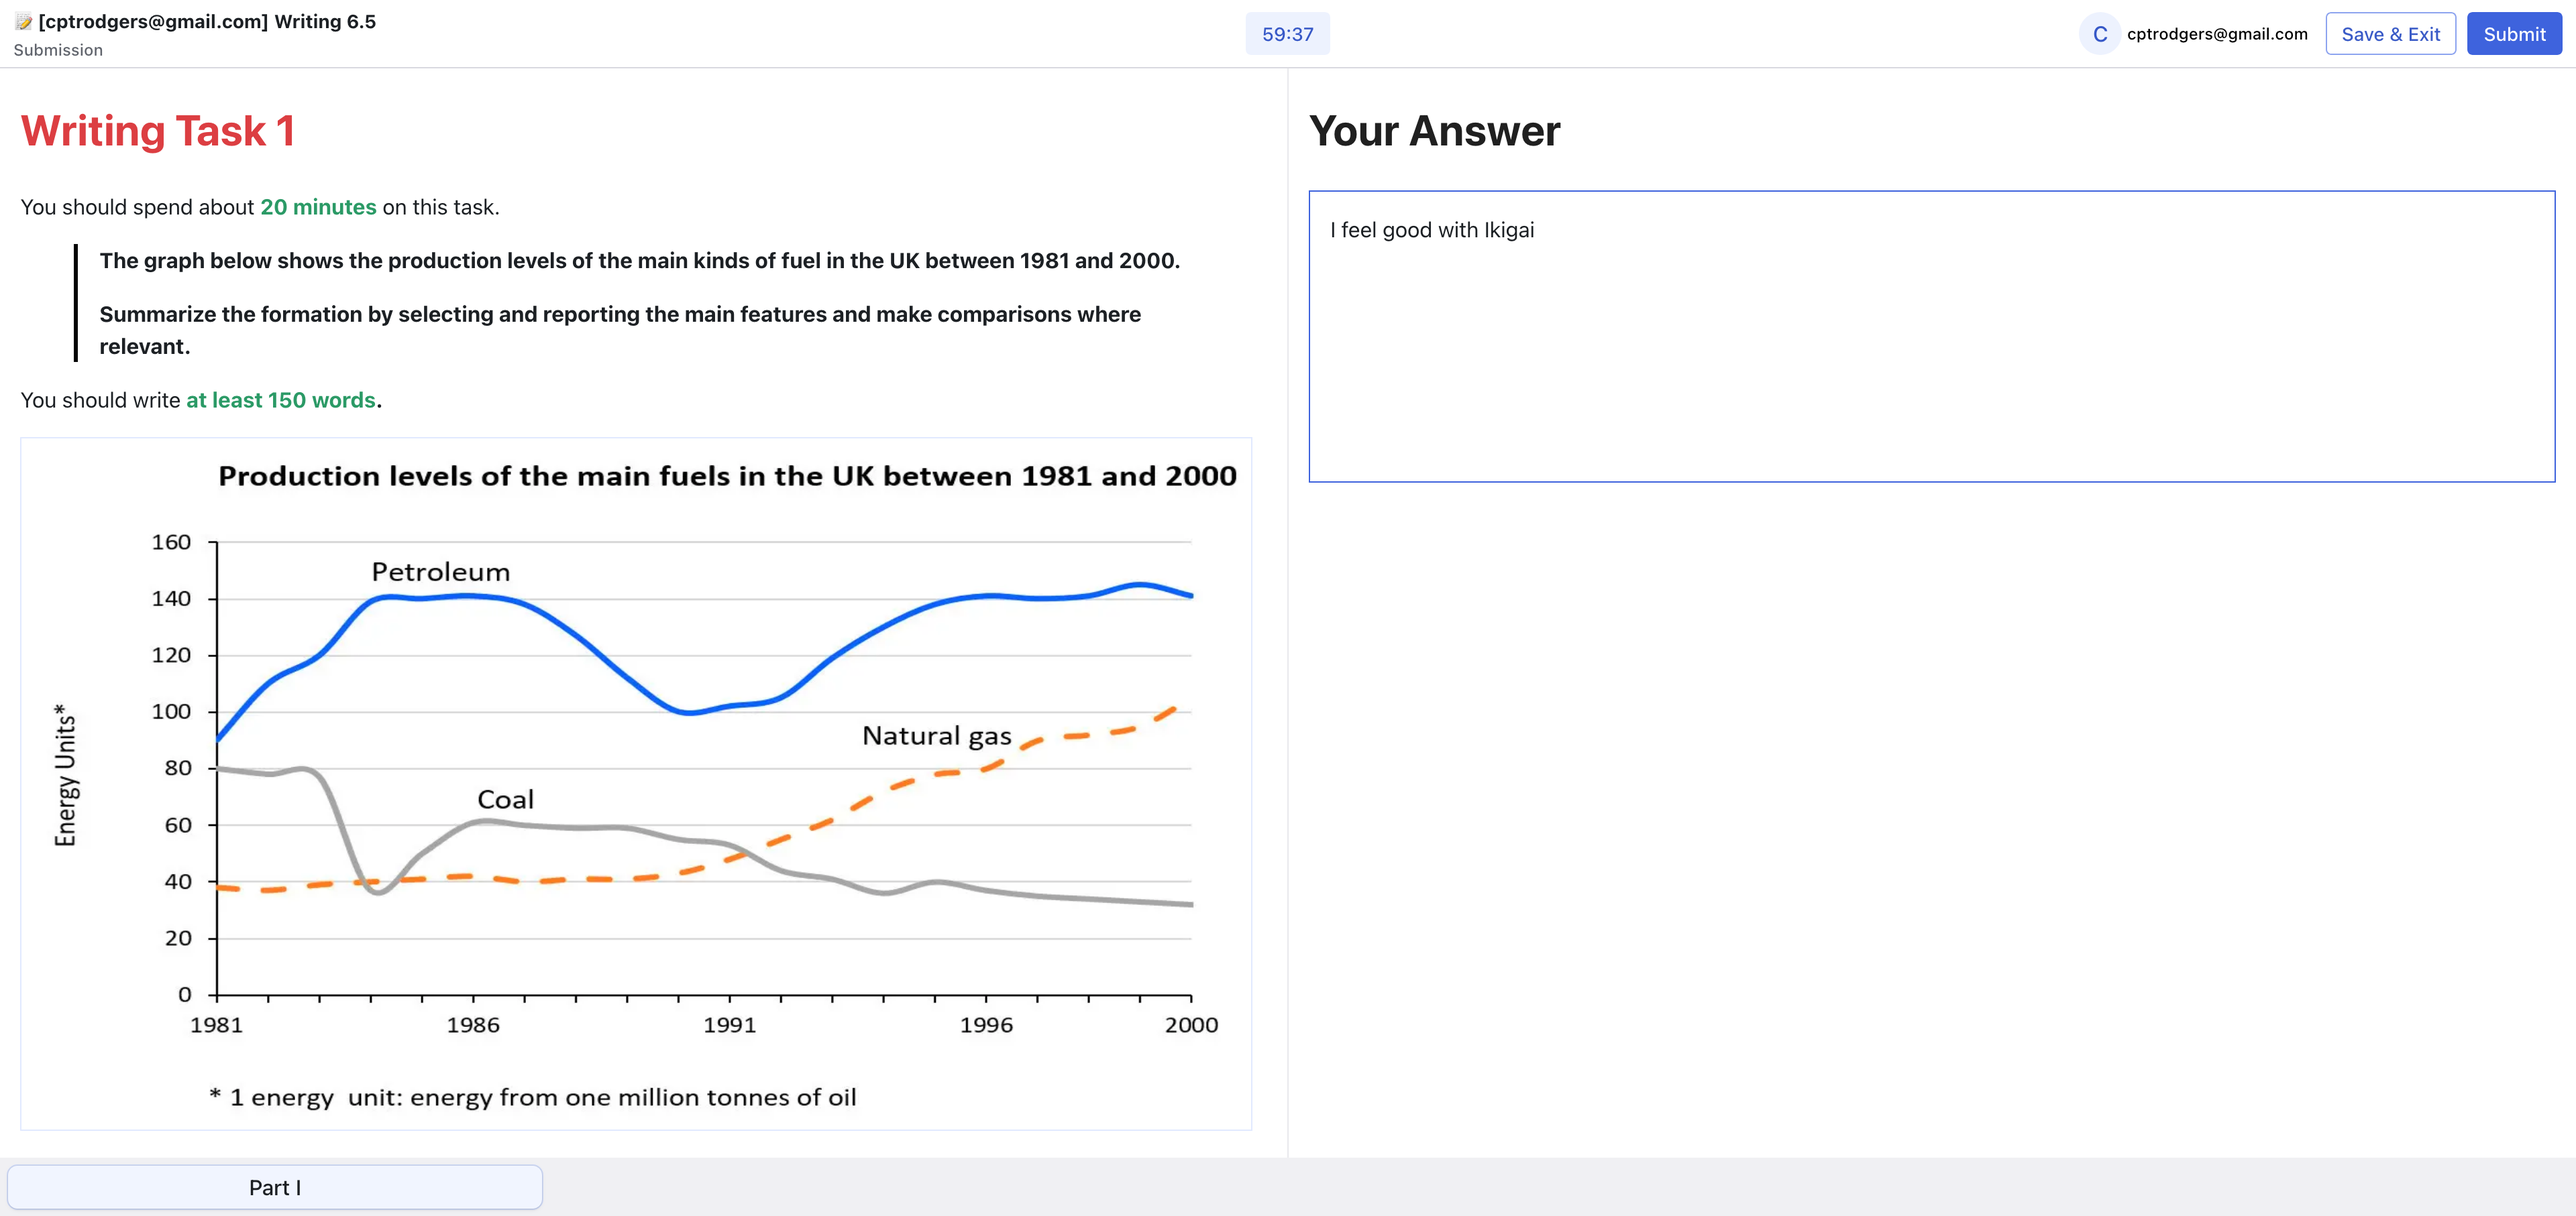
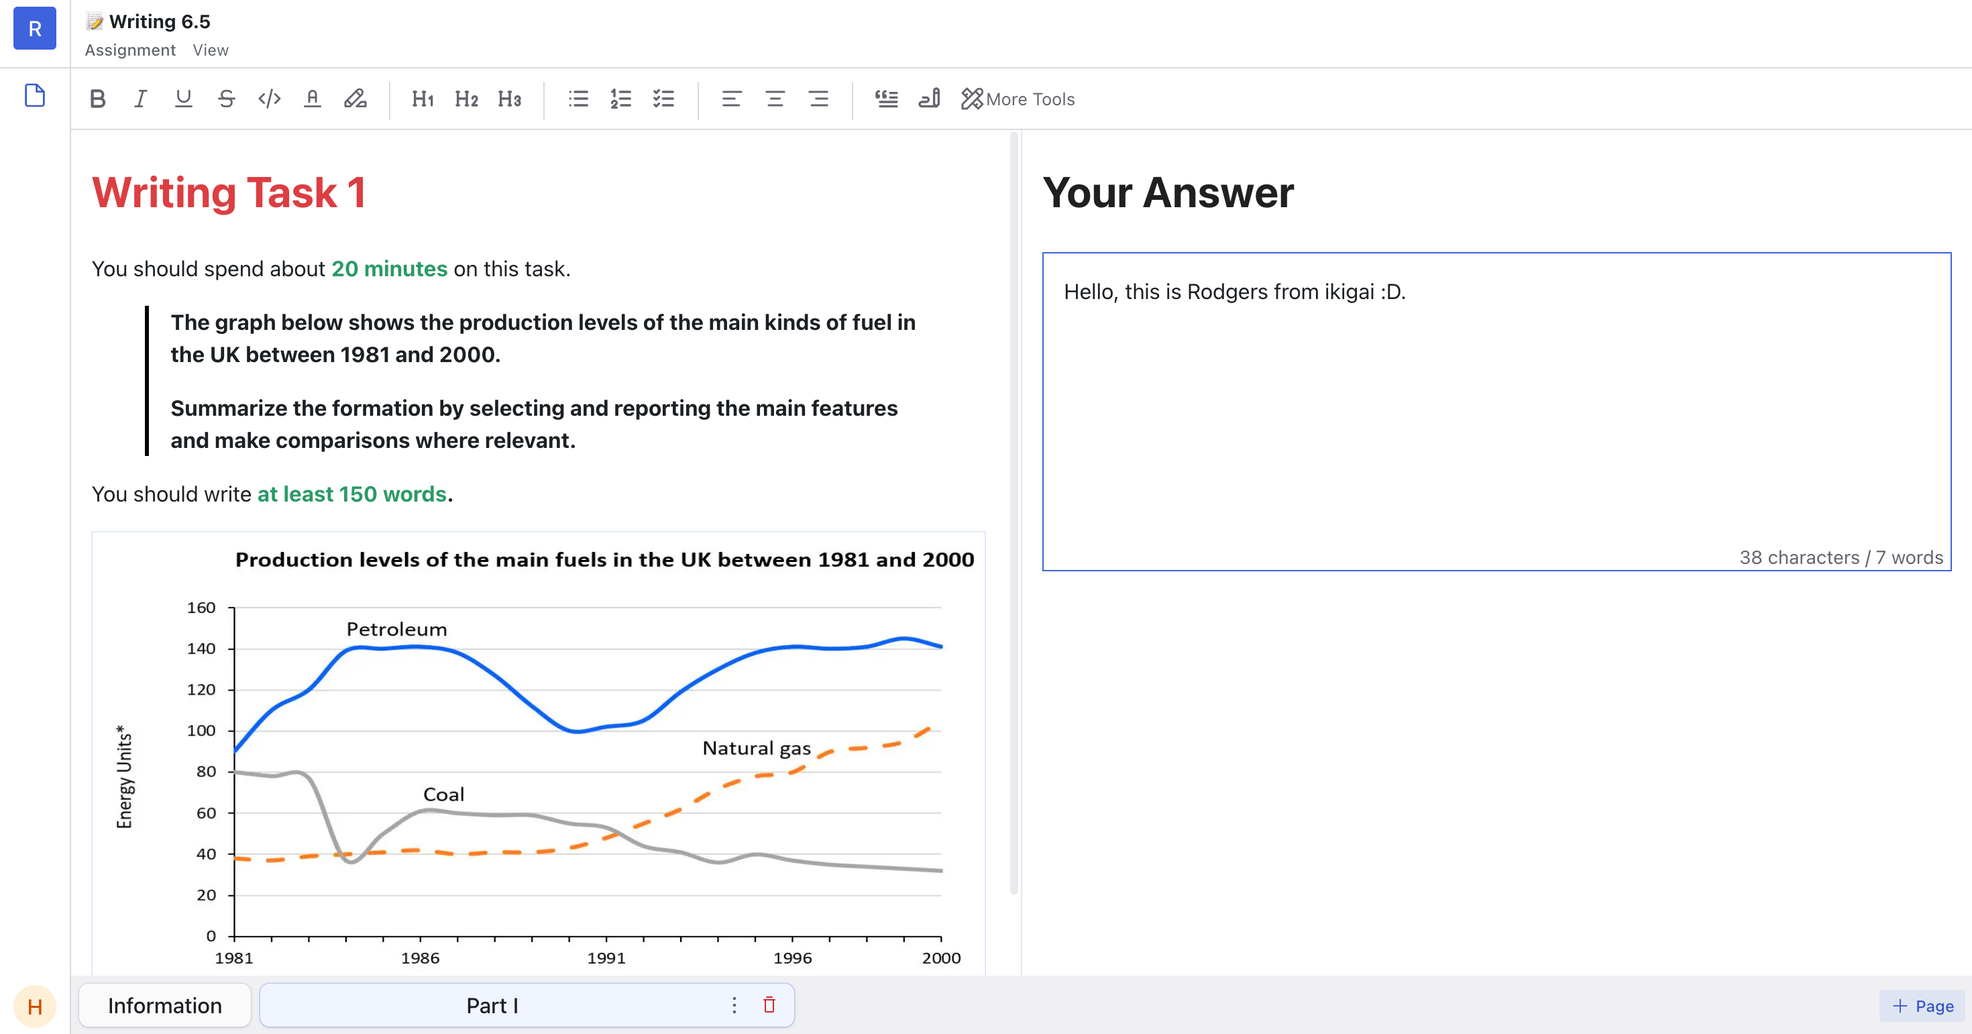
feat: add character and word count for writing block

diff --git a/apps/ikigai/components/Editor/Extensions/WritingBlock/WritingBlockComponent.tsx b/apps/ikigai/components/Editor/Extensions/WritingBlock/WritingBlockComponent.tsx
@@ -17,8 +17,9 @@ import React, { useEffect, useRef, useState } from "react";
 import { useLazyQuery, useMutation } from "@apollo/client";
 import { useDebounceFn } from "ahooks";
 import { v4 } from "uuid";
+import CharacterCount from "@tiptap/extension-character-count";
 
-import BaseEditor from "../../BaseEditor";
+import BaseEditor, { useIkigaiEditor } from "../../BaseEditor";
 import { EMPTY_UUID, isEmptyUuid } from "util/FileUtil";
 import { GET_WRITING_BLOCK } from "graphql/query/DocumentQuery";
 import { handleError } from "graphql/ApolloClient";
@@ -35,9 +36,9 @@ import {
 import Loading from "components/Loading";
 import usePermission from "hook/UsePermission";
 import { ExtensionWrapper } from "components/base/ExtensionComponentUtil";
+import { Text } from "@radix-ui/themes";
 
 const WritingBlockComponent = (props: NodeViewProps) => {
-  const allow = usePermission();
   const pageContentId = props.extension.options.pageContentId;
   const writingBlockId = props.node.attrs.writingBlockId;
   const originalBlockId = props.node.attrs.originalBlockId;
@@ -157,7 +158,6 @@ const WritingBlockComponent = (props: NodeViewProps) => {
     });
     innerContent.current = content;
   };
-
   if (initializing) {
     return (
       <NodeViewWrapper>
@@ -172,49 +172,78 @@ const WritingBlockComponent = (props: NodeViewProps) => {
   return (
     <NodeViewWrapper>
       <ExtensionWrapper selected={props.selected}>
-        <div style={{ minHeight: 200 }}>
-          <BaseEditor
-            body={innerContent.current}
-            onUpdate={updateContent}
-            onForceSave={forceSave}
-            extensions={[
-              StarterKit,
-              TaskList,
-              TaskItem.configure({
-                nested: true,
-              }),
-              Placeholder.configure({
-                placeholder: t`Writing here...`,
-              }),
-              Underline,
-              Highlight.configure({
-                multicolor: true,
-              }),
-              TextStyle,
-              Color,
-              TextAlign.configure({
-                types: ["heading", "paragraph"],
-                alignments: ["left", "center", "right"],
-              }),
-              BulletList.configure({
-                keepAttributes: true,
-                keepMarks: true,
-              }),
-              OrderedList.configure({
-                keepAttributes: true,
-                keepMarks: true,
-              }),
-              ListItem,
-              TaskList,
-              TaskItem.configure({
-                nested: true,
-              }),
-            ]}
-            readOnly={!allow(DocumentActionPermission.INTERACTIVE_WITH_TOOL)}
-          />
-        </div>
+        <WritingEditor
+          body={innerContent.current}
+          onUpdate={updateContent}
+          onForceSave={forceSave}
+        />
       </ExtensionWrapper>
     </NodeViewWrapper>
+  );
+};
+
+type WritingEditorProps = {
+  body: JSONContent;
+  onUpdate: (content: JSONContent) => void;
+  onForceSave: (content: JSONContent) => void;
+};
+
+const WritingEditor = ({ body, onUpdate, onForceSave }: WritingEditorProps) => {
+  const allow = usePermission();
+  const editor = useIkigaiEditor({
+    body,
+    onUpdate,
+    onForceSave,
+    extensions: [
+      StarterKit,
+      TaskList,
+      TaskItem.configure({
+        nested: true,
+      }),
+      Placeholder.configure({
+        placeholder: t`Writing here...`,
+      }),
+      Underline,
+      Highlight.configure({
+        multicolor: true,
+      }),
+      TextStyle,
+      Color,
+      TextAlign.configure({
+        types: ["heading", "paragraph"],
+        alignments: ["left", "center", "right"],
+      }),
+      BulletList.configure({
+        keepAttributes: true,
+        keepMarks: true,
+      }),
+      OrderedList.configure({
+        keepAttributes: true,
+        keepMarks: true,
+      }),
+      ListItem,
+      TaskList,
+      TaskItem.configure({
+        nested: true,
+      }),
+      CharacterCount,
+    ],
+    readOnly: !allow(DocumentActionPermission.INTERACTIVE_WITH_TOOL),
+  });
+
+  return (
+    <>
+      <div style={{ minHeight: 200 }}>
+        <BaseEditor editor={editor} />
+      </div>
+      <div style={{ paddingRight: 5 }}>
+        <Text size="2" align="right" as="div" color={"gray"}>
+          {editor?.storage?.characterCount?.characters() || 0} characters
+          /&nbsp;
+          {editor?.storage?.characterCount?.words() || 0} words
+        </Text>
+      </div>
+    </>
   );
 };
 

diff --git a/apps/ikigai/components/Editor/index.tsx b/apps/ikigai/components/Editor/index.tsx
@@ -17,7 +17,7 @@ import { IPageContent } from "store/PageContentStore";
 import useAddOrUpdatePageContent from "hook/UseUpsertPageContent";
 import FileHandler from "./Extensions/FileHandler";
 import WritingBlock from "./Extensions/WritingBlock";
-import BaseEditor from "./BaseEditor";
+import BaseEditor, { useIkigaiEditor } from "./BaseEditor";
 
 export type EditorProps = {
   readOnly: boolean;
@@ -31,56 +31,56 @@ const Editor = ({ pageContent, readOnly }: EditorProps) => {
   );
   const { run, cancel } = useDebounceFn(upsert, { wait: 300, maxWait: 1000 });
 
-  return (
-    <BaseEditor
-      body={pageContent.body}
-      onUpdate={(body) => run({ body })}
-      onForceSave={(body) => {
-        cancel();
-        upsert({ body });
-      }}
-      extensions={[
-        StarterKit,
-        TaskList,
-        TaskItem.configure({
-          nested: true,
-        }),
-        Placeholder.configure({
-          placeholder: t`Typing content here...`,
-        }),
-        Underline,
-        Highlight.configure({
-          multicolor: true,
-        }),
-        TextStyle,
-        Color,
-        TextAlign.configure({
-          types: ["heading", "paragraph"],
-          alignments: ["left", "center", "right"],
-        }),
-        BulletList.configure({
-          keepAttributes: true,
-          keepMarks: true,
-        }),
-        OrderedList.configure({
-          keepAttributes: true,
-          keepMarks: true,
-        }),
-        ListItem,
-        TaskList,
-        TaskItem.configure({
-          nested: true,
-        }),
-        FileHandler.configure({
-          pageContentId: pageContent.id,
-        }),
-        WritingBlock.configure({
-          pageContentId: pageContent.id,
-        }),
-      ]}
-      readOnly={readOnly}
-    />
-  );
+  const editor = useIkigaiEditor({
+    body: pageContent.body,
+    onUpdate: (body) => run({ body }),
+    onForceSave: (body) => {
+      cancel();
+      upsert({ body });
+    },
+    extensions: [
+      StarterKit,
+      TaskList,
+      TaskItem.configure({
+        nested: true,
+      }),
+      Placeholder.configure({
+        placeholder: t`Typing content here...`,
+      }),
+      Underline,
+      Highlight.configure({
+        multicolor: true,
+      }),
+      TextStyle,
+      Color,
+      TextAlign.configure({
+        types: ["heading", "paragraph"],
+        alignments: ["left", "center", "right"],
+      }),
+      BulletList.configure({
+        keepAttributes: true,
+        keepMarks: true,
+      }),
+      OrderedList.configure({
+        keepAttributes: true,
+        keepMarks: true,
+      }),
+      ListItem,
+      TaskList,
+      TaskItem.configure({
+        nested: true,
+      }),
+      FileHandler.configure({
+        pageContentId: pageContent.id,
+      }),
+      WritingBlock.configure({
+        pageContentId: pageContent.id,
+      }),
+    ],
+    readOnly,
+  });
+
+  return <BaseEditor editor={editor} />;
 };
 
 export default Editor;

diff --git a/apps/ikigai/components/Editor/BaseEditor.tsx b/apps/ikigai/components/Editor/BaseEditor.tsx
@@ -28,7 +28,7 @@ export const findTransformBlocks = (
   return blocks;
 };
 
-export type BaseEditorProps = {
+export type IkigaiEditorProps = {
   readOnly: boolean;
   onUpdate: (body: JSONContent) => void | Promise<void>;
   onForceSave: (body: JSONContent) => void | Promise<void>;
@@ -42,7 +42,7 @@ export const useIkigaiEditor = ({
   onUpdate,
   extensions,
   onForceSave,
-}: BaseEditorProps) => {
+}: IkigaiEditorProps) => {
   const setActiveEditor = useEditorStore((state) => state.setActiveEditor);
   const innerContent = useRef(body);
 
@@ -103,11 +103,11 @@ export const useIkigaiEditor = ({
   });
 };
 
-export type WrapperEditorProps = {
+export type BaseEditorProps = {
   editor: Editor;
 };
 
-const WrapperEditor = ({ editor }: WrapperEditorProps) => {
+const BaseEditor = ({ editor }: BaseEditorProps) => {
   return (
     <main style={{ margin: 15 }} spellCheck={false}>
       <EditorContent style={{ width: "100%" }} editor={editor} />
@@ -115,4 +115,4 @@ const WrapperEditor = ({ editor }: WrapperEditorProps) => {
   );
 };
 
-export default WrapperEditor;
+export default BaseEditor;
